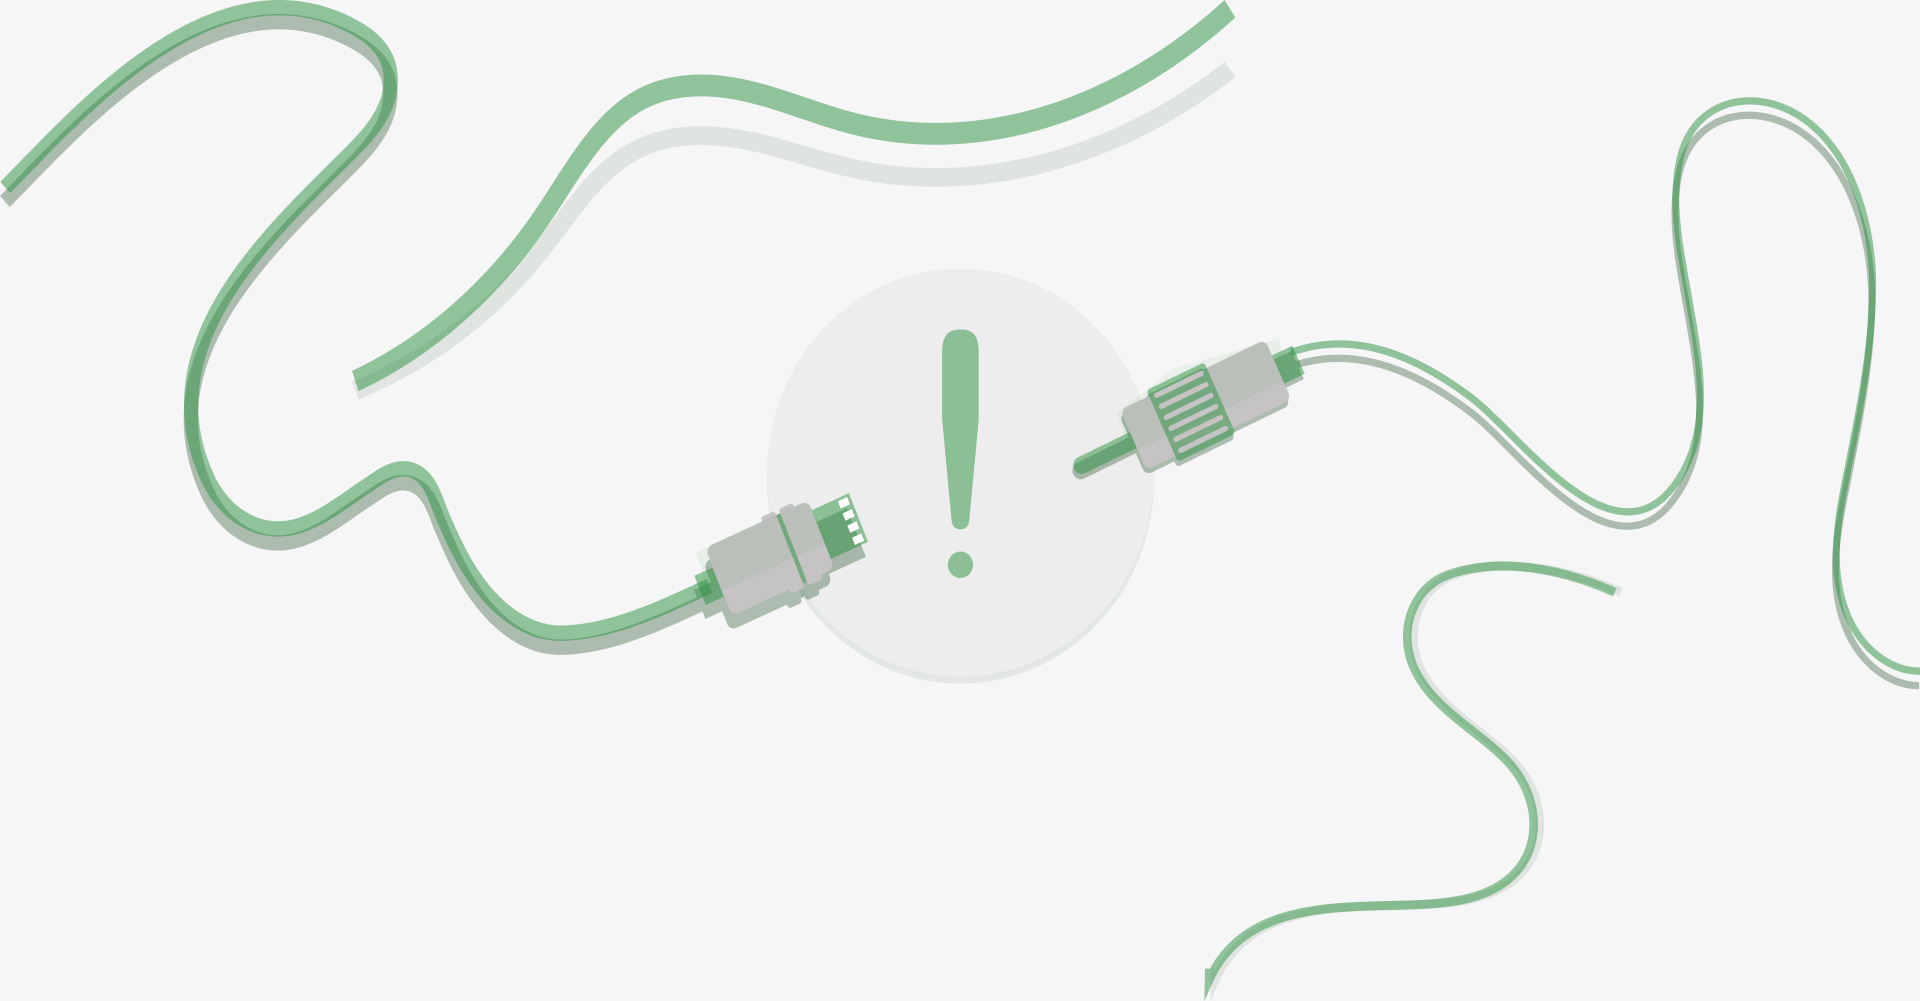
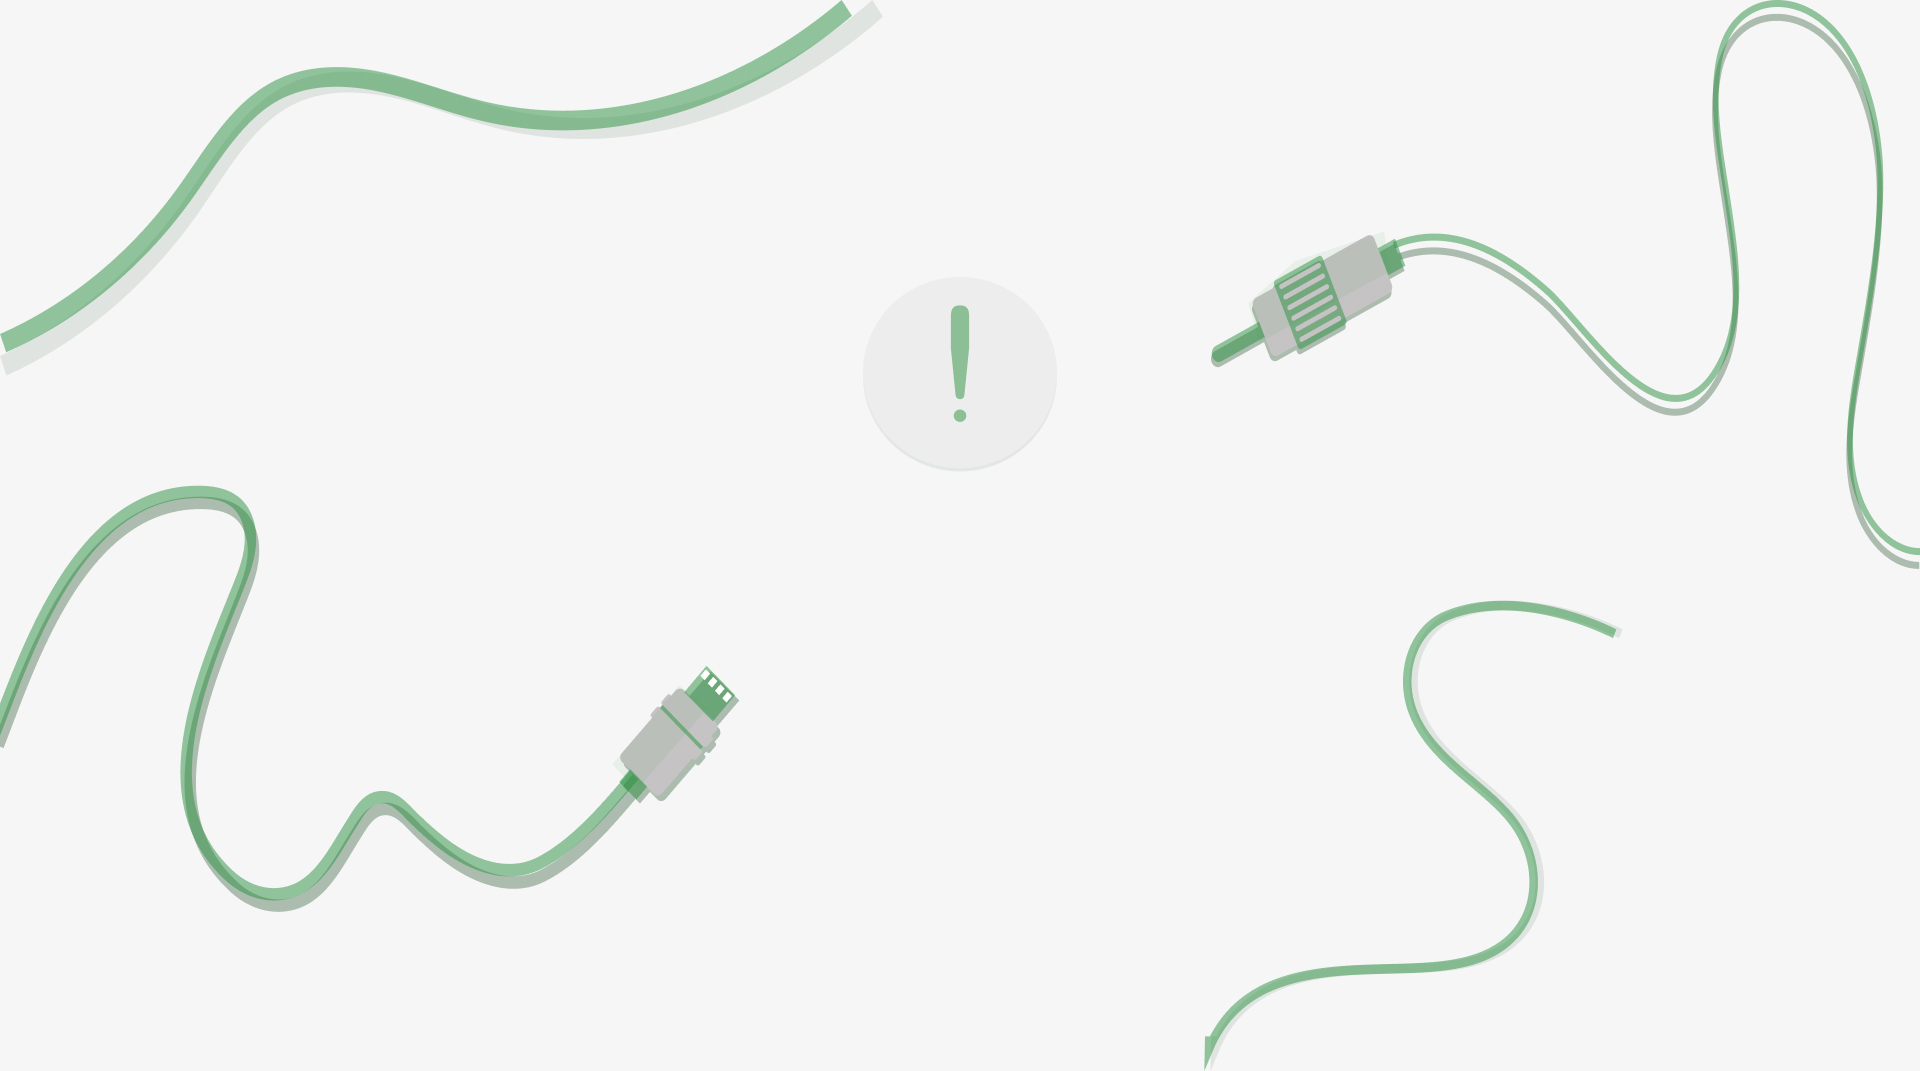
Update 2021-08-27T11:44:59.502Z

diff --git a/css/style.min.css b/css/style.min.css
@@ -865,7 +865,7 @@ body._lock {
 
 .page-404 {
   height: 100vh;
-  background: url("../img/4041.png") center no-repeat;
+  background: url("../img/404.jpg") center no-repeat;
 }
 
 .cto {
